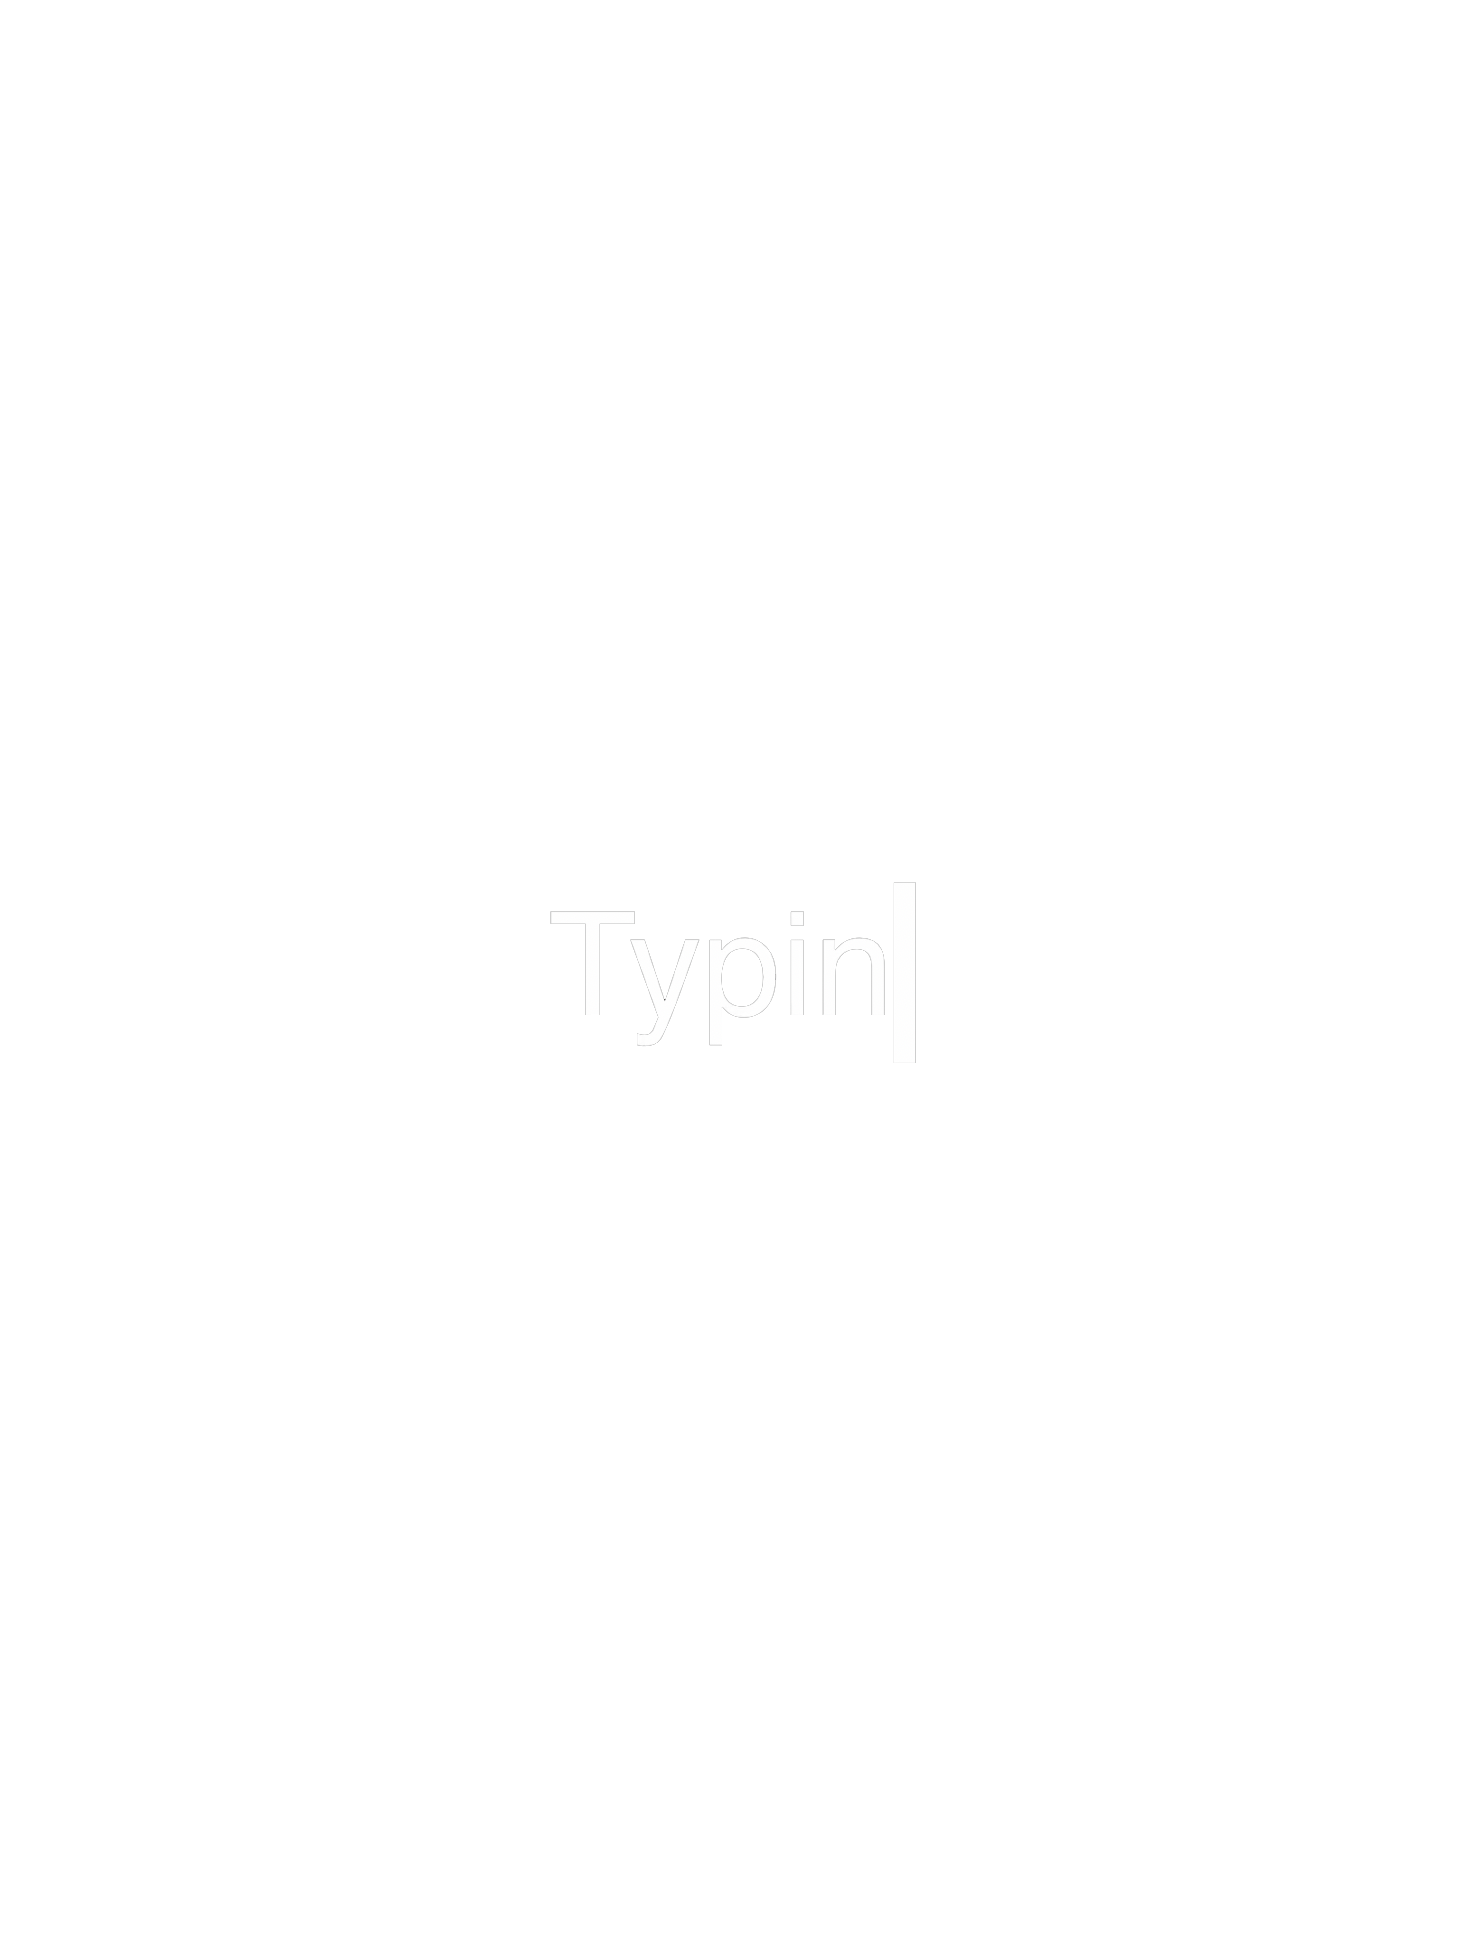
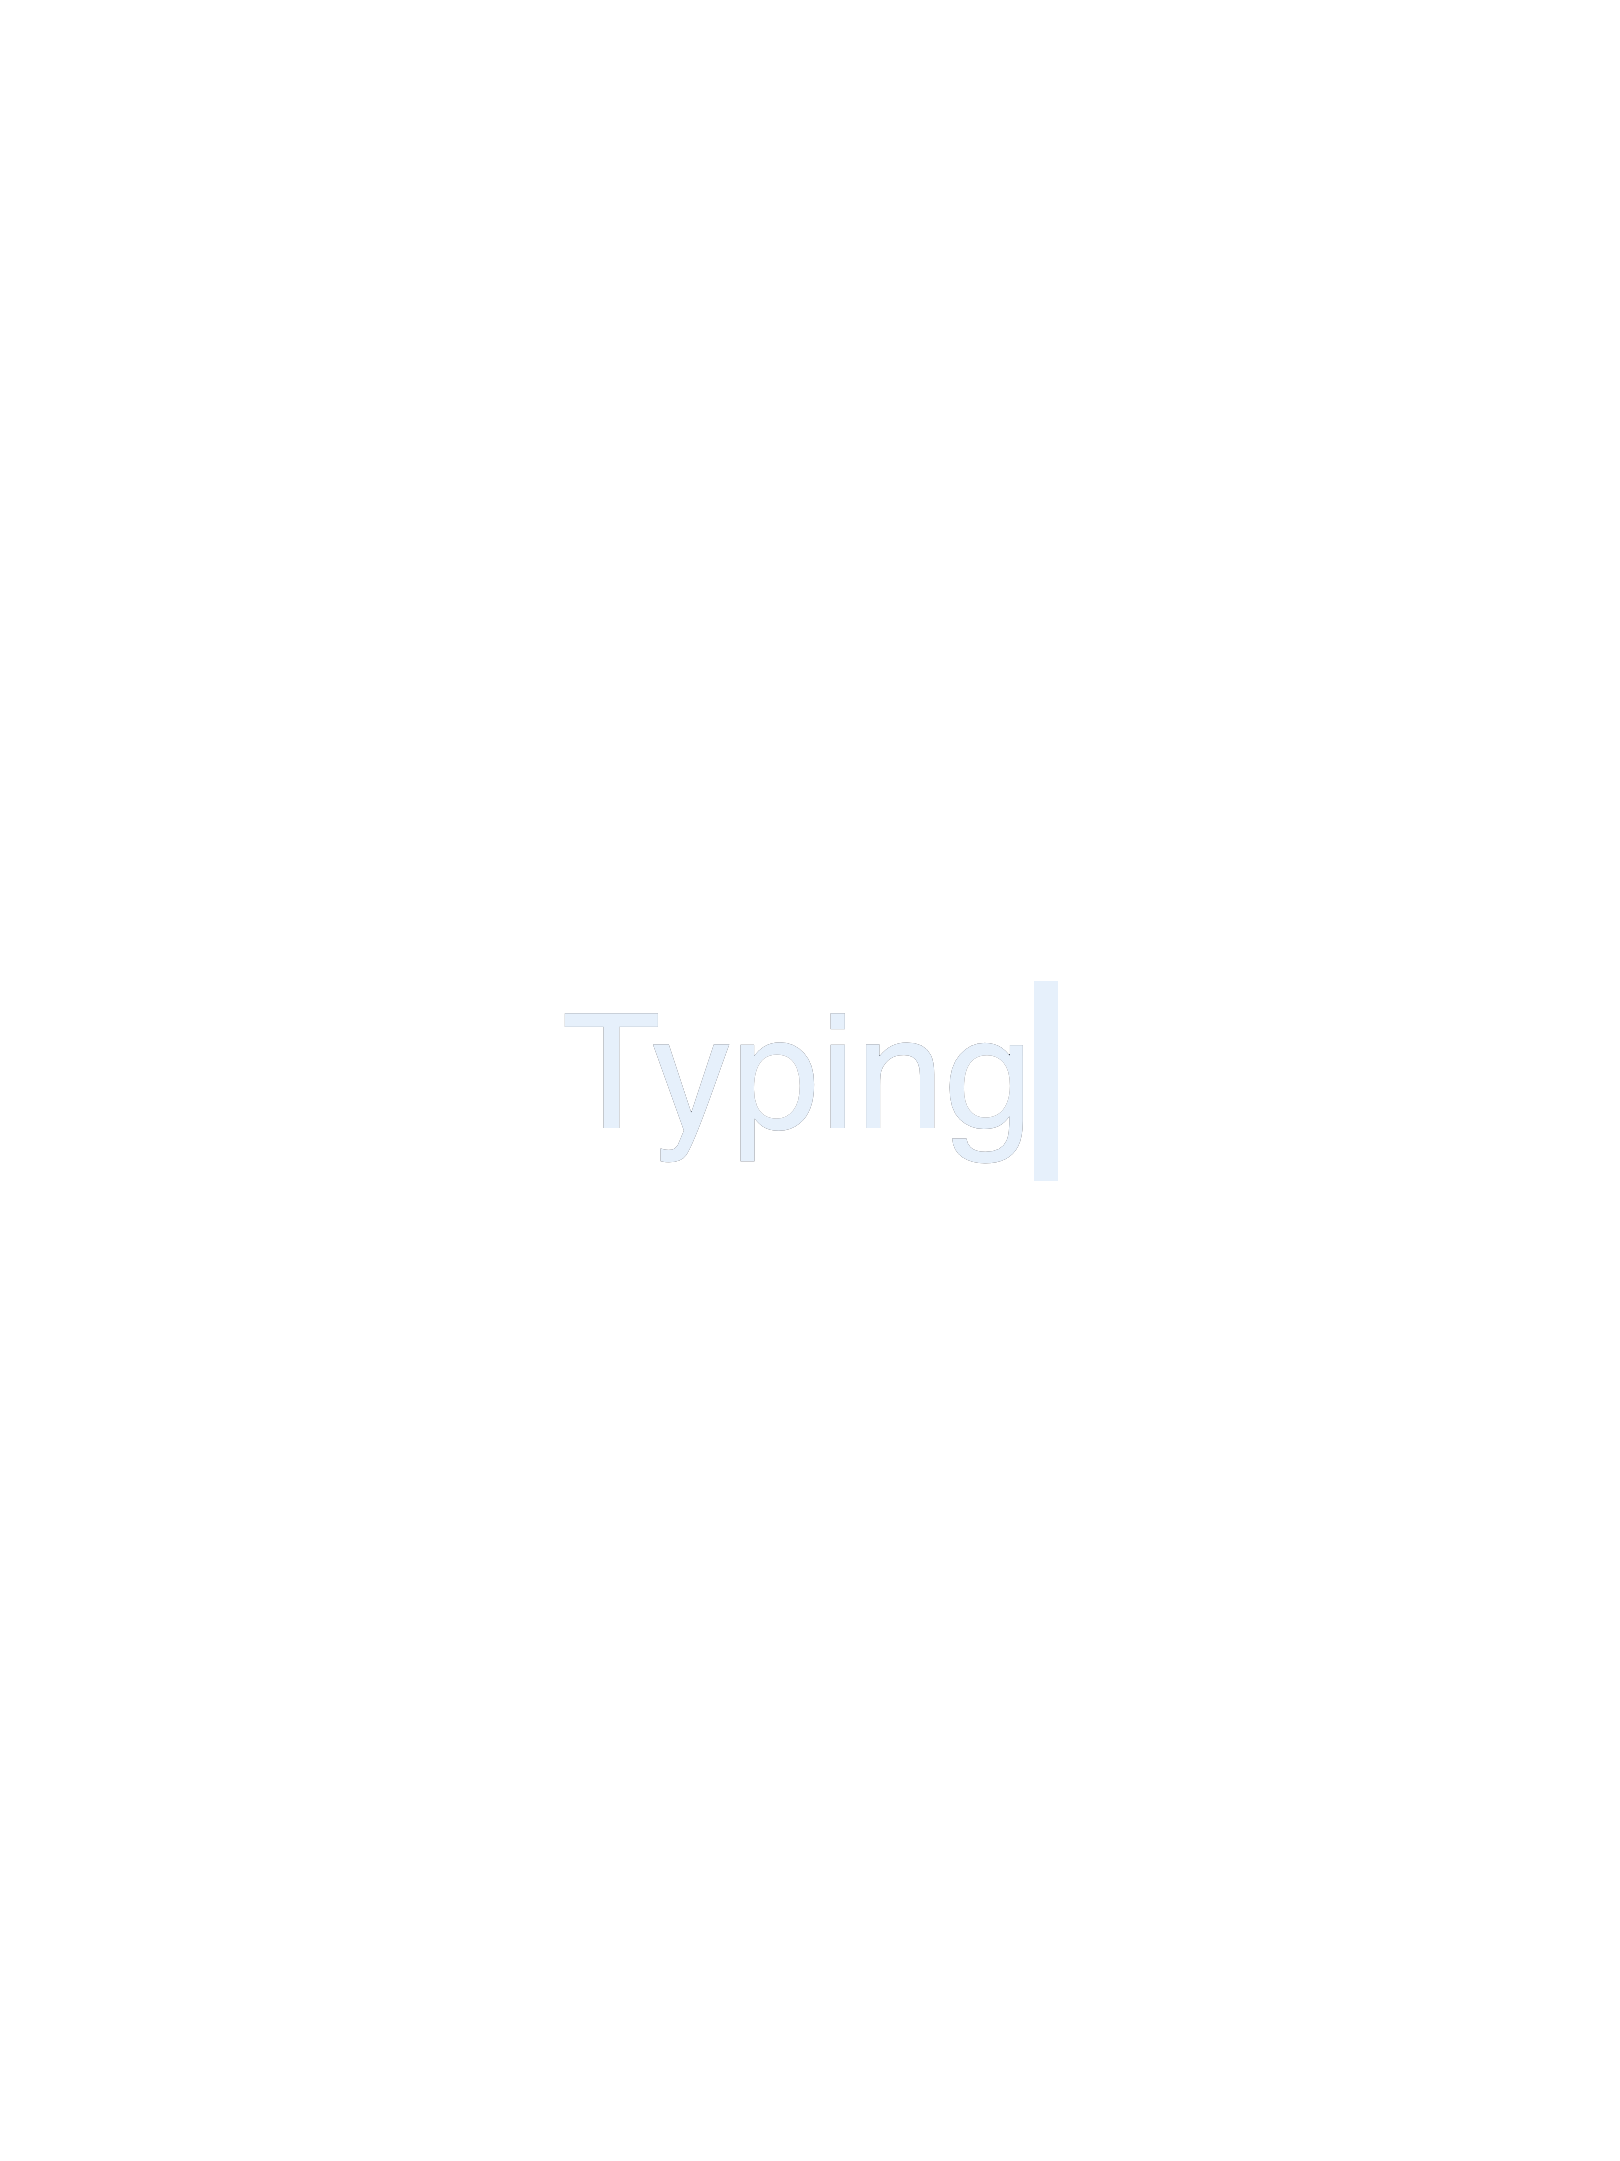
theming complete

Changed region(s): [[0.3381, 0.4639, 0.6762, 0.5567]]

diff --git a/color.css b/color.css
@@ -14,6 +14,11 @@
     color: #AED7FF
 }
 
+.container.gravity {
+    background-color: #131B36;
+    color: #FF3750
+}
+
 /* Hover */
 .dark .hovering {
     color: white;
@@ -23,6 +28,7 @@
     color:red;
 }
 
+
 .twobit .hovering {
     color: #517D45;
 }
@@ -31,6 +37,7 @@
     color: #0C4500;
 }
 
+
 .typewriter .hovering {
     color: #DF4577;
 }
@@ -38,6 +45,60 @@
 .typewriter .hovering:hover {
     color: #DF4577;
 }
+
+
+.gravity .hovering {
+    color: #FF3750;
+}
+
+.gravity .hovering:hover {
+    color: #9C0918;
+}
+
+/* Keyboard Input */
+.keyboardinput.gravity {
+    background-color: #171F2F;
+}
+
+.keyboardinput.gravity input::placeholder {
+    background-color: #171F2F;
+    color: #9C0918;
+}
+
+.keyboardinput.gravity input {
+    background-color: #171F2F;
+    color: #FF3750;
+}
+
+.keyboardinput.typewriter {
+    background-color: #151C26;
+}
+
+.keyboardinput.typewriter input::placeholder {
+    background-color: #151C26;
+    color: #506477;
+}
+
+.keyboardinput.typewriter input {
+    background-color: #151C26;
+    color: #91B3D5;
+}
+
+
+.keyboardinput.twobit {
+    background-color: #517D45;
+}
+
+.keyboardinput.twobit input::placeholder {
+    background-color: #517D45;
+    color: #99B68A;
+}
+
+.keyboardinput.twobit input {
+    background-color: #517D45;
+    color: #DFF0D3;
+}
+
 
 /* Others */
 

diff --git a/src/theme.js b/src/theme.js
@@ -19,6 +19,12 @@ export function getTheme(theme) {
                 descriptionColor: '#AED7FF',
                 backgroundColor: '#151C26'
             }
+        case 'gravity':
+            return {
+                textColor: '#FF3750',
+                descriptionColor: '#9C0918',
+                backgroundColor: '#190E38'
+            }
         default:
             return {
                 textColor: '#ffffff',

diff --git a/src/drawing/gravity/index.js b/src/drawing/gravity/index.js
@@ -163,8 +163,8 @@ export class Gravity {
                 points,
                 {
                     render: {
-                        fillStyle: '#fff',
-                        strokeStyle: '#fff',
+                        fillStyle: '#DFC92C',
+                        strokeStyle: '#DFC92C',
                         lineWidth: 1
                     }
                 }, false, 0.05, 0.1, 0.1

diff --git a/src/poster/poster.js b/src/poster/poster.js
@@ -130,7 +130,7 @@ export class Poster {
 
         //key input
         this.keyboardinputContainer = document.createElement('div');
-        this.keyboardinputContainer.className = 'keyboardinput off';
+        this.keyboardinputContainer.className = `keyboardinput ${this.data.theme} off`;
 
         this.keyboardinput = document.createElement('input');
         this.keyboardinput.type = 'text';

diff --git a/src/lib/getContent.js b/src/lib/getContent.js
@@ -63,7 +63,7 @@ export function getContentMetadata(number) {
         case 3:
             return {
                 title: 'Gravity',
-                theme: 'dark',
+                theme: 'gravity',
                 number,
                 description: 'Falling characters using svg and matter.js',
                 imageUrl: '/assets/Gravity.png'

diff --git a/style.css b/style.css
@@ -210,7 +210,7 @@ canvas {
 }
 
 .keyboardinput input {
-    background-color: #ffffff;
+    color: inherit;
     border: none;
 
     font-family: 'Roboto', sans-serif;
